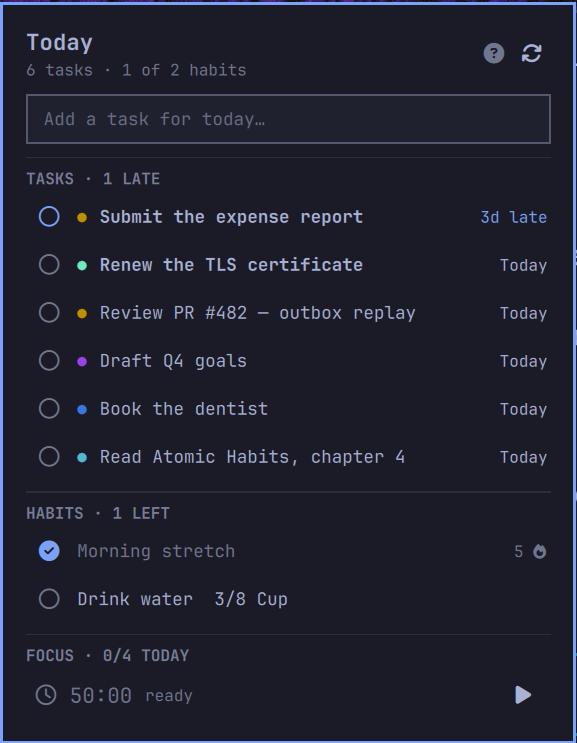
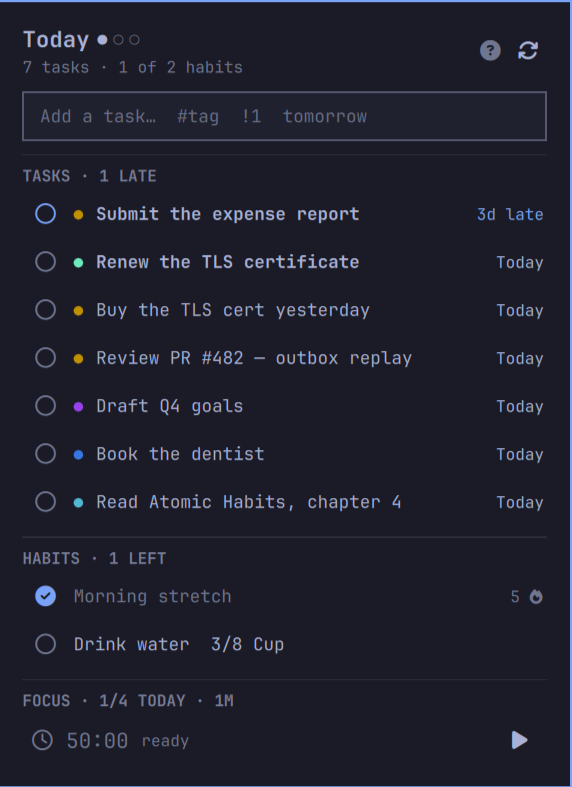
Credit the work this was built on, and refresh the preview
The preview still showed the header before the range switch existed and a
quick-add placeholder from before the inline syntax, so it advertised a
version of the panel that no longer exists. Retaken from the running plugin
with the same demo data, now showing the range dots, the syntax hint, and a
focus block on the board.

ACKNOWLEDGEMENTS.md records what this is built on. No third-party code is
vendored, but three of the plugin's better decisions are Omarchy's rather
than mine — the service and view split, focused-monitor panel routing, and
the bar widget plus popup structure — and the TickTick API knowledge came
from projects that reverse engineered it first. Those are exactly the debts
that go unstated because nothing was copied.

Also states plainly that this is unaffiliated with TickTick, and adds the two
mouse gestures the shortcut table was missing.

Claude-Session: https://claude.ai/code/session_01BnmCM3iyXPsiMG3zFUzb2s

diff --git a/ACKNOWLEDGEMENTS.md b/ACKNOWLEDGEMENTS.md
@@ -1,0 +1,80 @@
+# Acknowledgements
+
+No third-party code is vendored into this plugin. What follows is what it was
+built on, learned from, or runs inside — including cases where the debt is
+knowledge rather than code, since those are the ones that are easy to leave
+unsaid.
+
+## Runs inside
+
+**[Omarchy](https://github.com/basecamp/omarchy)** — MIT. The desktop and the
+shell that hosts this. The plugin contract (`manifest.json`, `kinds`,
+`entryPoints`), the `qs.Ui` component kit (`BarWidget`, `Panel`,
+`KeyboardPanel`, `PanelActionButton`, `TextField`, `PanelToolTip`, and others),
+and the `qs.Commons` `Style` / `Color` tokens are all Omarchy's.
+
+Three of its solutions were adopted after trying to invent worse ones:
+
+- The **service + view split** is modeled on `plugins/services/media`, which
+  keeps shared state in a `service`-kind plugin and reaches it through
+  `shell.serviceFor(id)`.
+- **Focused-monitor panel routing** uses `Bar.findPanelWidget()`, which already
+  asks Hyprland which output is focused.
+- The **bar widget + popup structure** follows `plugins/panels/weather`.
+
+**[Quickshell](https://github.com/quickshell-mirror/quickshell)** — LGPL-3.0.
+The QML shell framework underneath: `Process`, `FileView`, `IpcHandler`,
+`SystemClock`, and the layer-shell windows the panel is drawn in.
+
+**[Nerd Fonts](https://github.com/ryanoasis/nerd-fonts)** — the icon glyphs in
+the bar and panel (checklist, clock, plug, circles, flame) are Nerd Font
+codepoints, rendered from whichever patched font the user's bar is configured
+with. The project aggregates several icon sets under their own licenses.
+
+## Layout and conventions
+
+**[tmn73/omarchy-calendar](https://github.com/tmn73/omarchy-calendar)** — MIT.
+The first third-party Omarchy plugin I read. Its shape — `manifest.json` plus
+`BarWidget.qml`, `Panel.qml`, a node-testable `Model.js`, and `tests/` — is the
+layout used here, along with the idea of keeping all fragile logic in plain JS
+so it can be tested without a running shell.
+
+## TickTick's private v2 API
+
+The API this speaks is undocumented. These projects worked parts of it out
+first, and reading them saved a great deal of guessing. No code was copied.
+
+**[lazeroffmichael/ticktick-py](https://github.com/lazeroffmichael/ticktick-py)**
+— MIT. The `x-device` header shape and the `/api/v2` base. Worth noting for
+anyone following the same path: its login path `/user/signin` now returns 404,
+and the live endpoint is `/user/signon`.
+
+**[OliverStoll/ticktick-api-v2](https://github.com/OliverStoll/ticktick-api-v2)**
+— Apache-2.0. The habit endpoints — `GET /habits`,
+`POST /habitCheckins/query`, `POST /habitCheckins/batch` — and
+`/pomodoros/timeline`. Habits do not exist in TickTick's documented Open API at
+all, so this is the reason the feature is possible.
+
+**[partymola/ticktick-mcp](https://github.com/partymola/ticktick-mcp)** —
+GPL-3.0. Documented that the sign-on endpoint is rate limited, which is why
+this plugin caches its session token rather than authenticating per call.
+
+**TickTick's own web client** — the exact sign-on payload and query string were
+read from the public JavaScript bundle served by `ticktick.com`, after the
+published wrappers disagreed with each other. Observation of a public
+interface; nothing was copied.
+
+## Publishing
+
+**[HANCORE-linux/omarchy-plugin-marketplace](https://github.com/HANCORE-linux/omarchy-plugin-marketplace)**
+— MIT. Community marketplace whose `SUBMISSION.md` set the requirements this
+repository follows: a root `manifest.json`, a README with installation *and*
+removal instructions, a license file, documented dependencies, a namespaced
+plugin id, and a single root `preview.png`.
+
+## Not affiliated
+
+This is an unofficial, community-built plugin. It is not affiliated with,
+endorsed by, or supported by **TickTick** (Appest Inc.), and it speaks an API
+they do not document or guarantee. TickTick is their trademark. Breakage is
+this plugin's problem, not theirs — please do not report it to them.

diff --git a/README.md b/README.md
@@ -227,6 +227,8 @@ Configure in Setup > Plugins, or inline on the bar entry in
 | Bar | left | open the panel |
 | Bar | middle | sync now |
 | Bar | right | open the TickTick web app |
+| Panel | click the circle | complete the task / check the habit in |
+| Panel | click the title | cycle the range (Today → Tomorrow → 7 days) |
 | Panel | `↑` `↓` | move between tasks and habits |
 | Panel | `enter` | complete the task / check the habit in |
 | Panel | `u` | undo the held action |
@@ -463,6 +465,18 @@ While a block runs the bar shows the countdown instead of the task count.
 Stopping a block early does **not** log it: TickTick counts a pomodoro on
 completion, and banking partial blocks would inflate the statistics this is
 meant to keep honest.
+
+## Licence and acknowledgements
+
+MIT — see [LICENSE](LICENSE).
+
+Built on Omarchy and Quickshell, and it speaks TickTick's private v2 API,
+which several other projects mapped out first. Who contributed what, and what
+this plugin owes them, is in
+[ACKNOWLEDGEMENTS.md](ACKNOWLEDGEMENTS.md).
+
+Unofficial and unaffiliated: not endorsed by or supported by TickTick
+(Appest Inc.). Please do not report breakage here to them.
 
 ## Limitations
 
